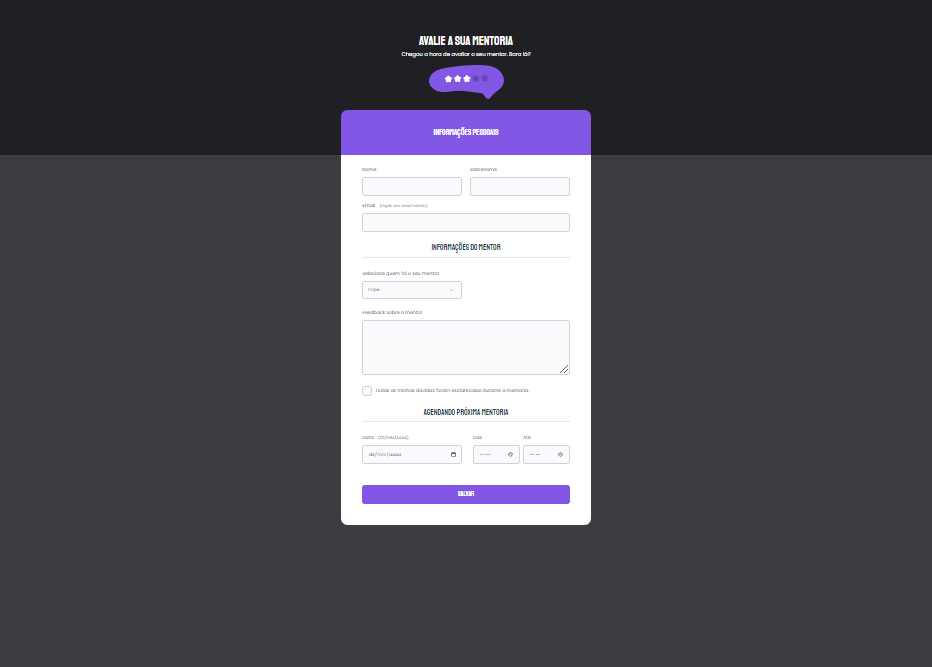
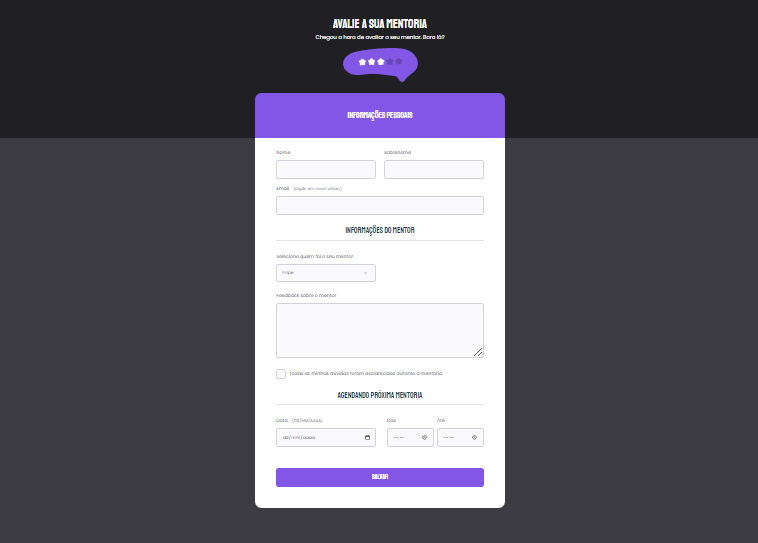
third commit

Changed region(s): [[0.0, 0.0295, 1.0, 0.9429]]

diff --git a/index.html b/index.html
@@ -29,20 +29,20 @@
                             <label for="mentorship-name">
                                 Nome
                             </label>
-                            <input type="text" name="mentorship-name" id="mentorship-name">
+                            <input type="text" name="mentorship-name" id="mentorship-name" required>
                         </div>
                         <div class="input-wrapper">
                             <label for="mentorship-surname">
                                 Sobrenome
                             </label>
-                            <input type="text" name="mentorship-surname" id="mentorship-surname">
+                            <input type="text" name="mentorship-surname" id="mentorship-surname" required>
                         </div>
                     </div>
                     <div class="input-wrapper">
-                        <label for="">
+                        <label for="mentorship-email">
                             Email <span>(digite um email válido)</span>
                         </label>
-                        <input type="email" name="" id="">
+                        <input type="email" name="mentorship-email" id="mentorship-email" required>
                     </div>
                 </div>
             </fieldset>
@@ -86,21 +86,21 @@
                             <label for="mentorship-date">
                                 Data <span>(DD/MM/AAAA)</span>
                             </label>
-                            <input type="date" name="mentorship-date" id="mentorship-date">
+                            <input type="date" name="mentorship-date" id="mentorship-date" required>
                         </div>
 
                         <div class="input-wrapper">
                             <label for="mentorship-begin">
                                 Das
                             </label>
-                            <input type="time" name="mentorship-begin" id="mentorship-begin">
+                            <input type="time" name="mentorship-begin" id="mentorship-begin" required>
                         </div>
 
                         <div class="input-wrapper">
                             <label for="mentorship-end">
                                 Até
                             </label>
-                            <input type="time" name="mentorship-end" id="mentorship-end">
+                            <input type="time" name="mentorship-end" id="mentorship-end" required>
                         </div>
                     </div>
                 </div>

diff --git a/README.md b/README.md
@@ -4,7 +4,7 @@
 
 > Trilha Explorer
 
-Finalizei o desafio do formulário avançado da Rocketseat, ficou muito lindo, tive uma ideia de usar as próprias cores da logo da Rocketseat nesse formulário, pois a gente poderia alterar cores e adicionar mais campos se quisessemos. Adicionei responsividade e animações que deu um toque super bacana. Nesse módulo de formulários eu aprendi a fazer um checkbox customizado e acessível, mudar backgrounds de campos, validações e muito mais.
+Finalizei o desafio do formulário avançado da Rocketseat, totalmente do zero através do figma. Ficou muito lindo, tive uma ideia de usar as próprias cores da logo da Rocketseat nesse formulário, pois a gente poderia alterar cores e adicionar mais campos se quisessemos. Adicionei responsividade e animações que deu um toque super bacana. Nesse módulo de formulários eu aprendi a fazer um checkbox customizado e acessível, mudar backgrounds de campos, validações e muito mais.
 
 [🔗 Clique aqui para acessar](https://filipesantos07.github.io/Rocketseat-desafio-formulario-avancado/)
 
